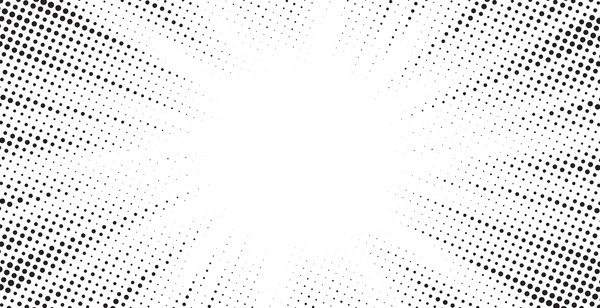
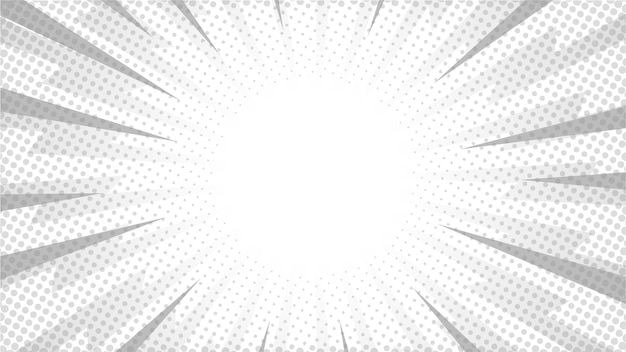
style background

diff --git a/resources/scss/app.scss b/resources/scss/app.scss
@@ -8,7 +8,7 @@ a{
 //! Style in Create and Edit
 #create,
 #edit{
-    background-image: url('../images/background3.jpg');
+    background-image: url('../images/background.jpg');
     background-size: cover;
     background-position: center;
 }

diff --git a/resources/views/partials/header.blade.php b/resources/views/partials/header.blade.php
@@ -8,10 +8,12 @@
           <div class="collapse navbar-collapse" id="navbarSupportedContent">
             <ul class="navbar-nav me-auto mb-2 mb-lg-0">
               <li class="nav-item">
-                <a class="nav-link" aria-current="page" href="{{ route("movies.index") }}">Home</a>
+                <a class="nav-link @if (Route::is('movies.index')) active @endif" aria-current="page" href="{{ route("movies.index") }}">
+                    Home
+                </a>
               </li>
               <li class="nav-item">
-                <a class="nav-link" href="{{ route("movies.create") }}">Insert new movie</a>
+                <a class="nav-link @if (Route::is('movies.create')) active @endif" href="{{ route("movies.create") }}">Insert new movie</a>
               </li>
             </ul>
           </div>

diff --git a/resources/views/movies/show.blade.php b/resources/views/movies/show.blade.php
@@ -3,9 +3,8 @@
 @section("page-title", "show-id")
 
 @section("main-content")
-<main class="container">
-
-    <article>
+<main id="show">
+    <article class="container">
         <div class="d-flex gap-5 m-5" >
             <img src="{{ $movie->poster }}" class="card-img-top" alt="{{ $movie->original_title }}" style="width: 21rem;">
             <div class="card-body">
@@ -21,5 +20,5 @@
             </div>
           </div>
     </article>
-
+</main>
 @endsection

diff --git a/resources/views/movies/index.blade.php b/resources/views/movies/index.blade.php
@@ -3,7 +3,7 @@
 @section("page-title", "Movies-index")
 
 @section("main-content")
-    <main class="container my-5">
+    <main class="container py-5">
         <div class="row justify-content-center">
             <div class="col-10">
                 <table class="table table-striped">
